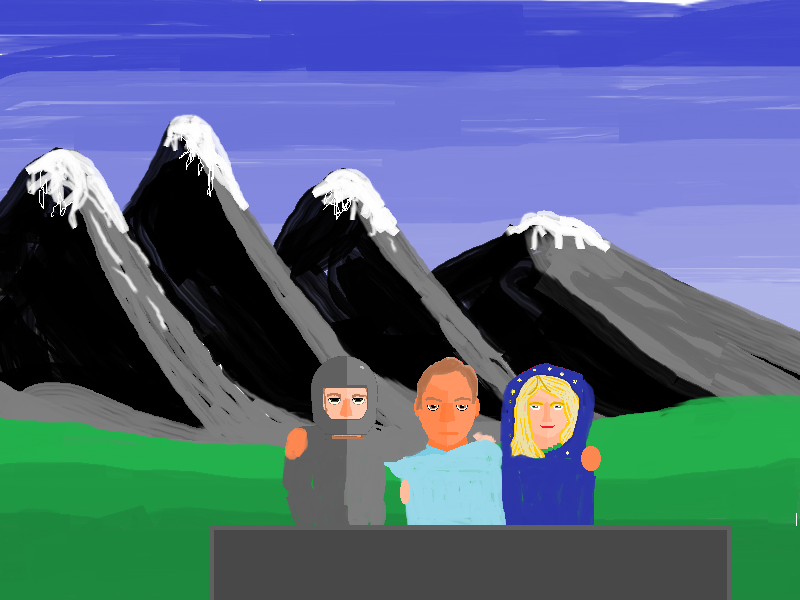
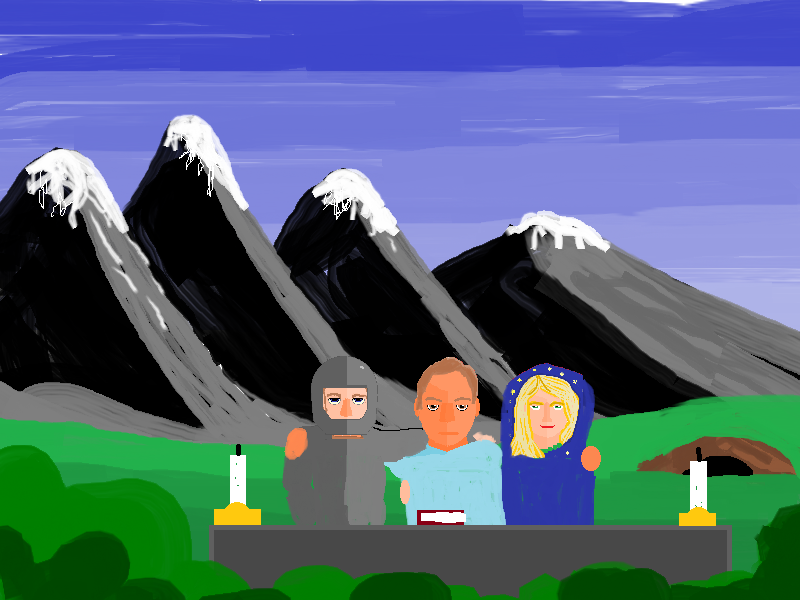
Added chair tile and added to the Castle Level

Changed region(s): [[0.0, 0.72, 1.0, 1.0], [0.7812, 0.72, 1.0, 0.9], [0.5, 0.84, 0.5938, 0.9]]

diff --git a/js/world/world.js b/js/world/world.js
@@ -47,36 +47,36 @@ var townArea = [
 					];
 
 var castleLevel = [  // levelOne - Castle
-					 1, 1, 1,11, 1, 1, 1,11, 1, 1, 1,11, 1, 1,36,11, 1, 1, 1,11, 1, 1, 1,11, 1, 1, 1,11, 1, 1, 1,11, 1, 1, 1,11, 1, 1, 1, 1,
-					 1,12, 5, 0,22, 0, 0,18, 0,118, 0, 0, 0, 0, 0, 0, 5, 5, 0,31,32, 0, 0, 0,16, 0, 0, 0, 0, 0, 0, 0,117,119, 0, 0, 0, 0,82, 1,
-					11, 2, 0, 0, 0, 0, 0, 0, 0, 0, 0, 0, 0, 0, 0, 0, 0, 0, 0, 0, 9, 0, 0, 0, 5, 0, 0, 0, 0,79, 0, 0, 0, 0, 0, 0, 0, 0, 0, 1,
-					 1, 0, 0, 0, 0, 0, 0, 0, 0, 0, 0, 0, 0, 0, 0, 0, 0, 0, 0, 0, 0, 0, 0, 0, 0, 0, 0, 0, 0, 0, 0, 0, 0, 0, 0, 0, 0, 0, 0, 1,
-					 1, 1, 1,11, 1, 1, 1,11, 1, 1, 1,11, 1, 0, 0, 1, 1, 1, 1, 7, 1,11,43,11,44, 1, 1, 1, 1, 1, 3, 1, 1, 1, 1, 1, 1, 1, 6, 1,
-					 1, 0, 0, 0, 0, 0, 0, 0, 0, 0, 0, 0, 0, 0, 0, 1,13,26,10, 0, 102, 0, 0, 0,82, 1,81, 0, 0, 0, 0, 0, 0, 0, 0, 0, 0, 0, 0, 1,
-					 1, 0, 0, 0, 0, 0, 0, 0, 0, 0, 0, 0, 0,23, 0, 1,13,24, 0, 0, 103, 0, 0, 0, 0, 1, 0, 0, 101, 0, 0, 0, 0, 0, 0, 0, 0, 0, 0, 1,
-					 1, 0, 0, 1, 1, 6, 1, 1, 3,43, 1, 1, 1, 1, 7, 1,13, 0, 0,45,49,49,46, 0, 0, 1, 0, 0, 0, 0, 0, 0, 0, 0, 0, 0, 0, 0, 0, 1,
-					11, 0, 0, 1, 1, 0,10, 1, 0,14,10,44,10,15, 0, 1,13,25, 0,52,63,51,53, 0, 0, 1, 0, 0, 0, 0, 0, 0, 0, 0, 0, 0, 0, 0, 0, 1,
-					 1, 0, 0, 1, 1, 0, 0,43, 0, 0, 0, 1, 5, 0, 0, 1,13, 0, 0,47,50,50,48, 0, 0, 1, 0, 0, 0, 0, 0, 0, 0, 0, 0, 0, 0, 0, 0, 1,
-					 1, 0, 0, 1, 1,45,46, 1, 0, 0, 0,44, 0, 0, 0, 1,13,22, 0, 0, 0, 0, 0, 0, 0, 1, 0, 0, 0, 0, 0, 0, 0, 0, 0, 0, 0, 0, 0, 1,
-					 1, 0, 0, 1, 1,47,48, 1, 5, 0, 0,11, 0, 0, 0, 1,13, 0, 0, 0, 0, 0, 0, 0, 0, 1, 0, 0, 0, 0, 0, 0, 0, 0, 0, 0, 0, 0, 0, 1,
-					11, 0, 0, 1, 1, 0, 0, 1, 1, 1,11,44, 0, 0, 0, 1, 1, 1, 1, 3, 1, 1, 1, 1, 1, 1, 0, 0, 0, 0, 0, 0, 0, 0, 0, 0, 0, 0, 0, 1,
-					 1, 0, 0, 1,13, 0, 4, 0, 0,44, 0,27, 0, 0, 0, 1,13, 0,10, 0, 0, 0, 0, 0, 0, 1, 0, 0, 0, 0, 0, 0, 0, 0, 0, 0, 0, 0, 0, 1,
-					 1, 0, 0, 1,13, 0, 0, 0, 0, 1, 0, 0, 0, 0, 5, 1,13, 0, 0,54,58,58,55, 0, 0, 1, 0, 0, 0, 0, 0, 0, 0, 0, 0, 0, 0, 0, 0, 1,
-					 1, 0, 0, 1, 1, 1, 1, 1, 1, 1, 1, 1, 1, 1, 1, 1,13, 0,28,61,64,60,62, 0, 0, 1, 0, 0, 0, 0, 0, 0, 0, 0, 0, 0, 0, 0, 0, 1,
-					11, 0, 0, 1, 1, 1,44,88, 1,88,44, 1, 1, 1, 1, 1,13, 0, 0,61,64,60,62, 0, 0, 1, 0, 0, 0, 0, 0, 0, 0, 0, 0, 0, 0, 0, 0, 1,
-					 1, 0, 0, 1, 1,81, 0, 0,97, 0, 8, 0,82, 1, 1, 1,13, 0, 0,56,59,59,57, 0, 0, 1, 0, 0, 0, 0, 0, 0, 0, 0, 0, 0, 0, 0, 0, 1,
-					 1, 0, 0, 1, 1, 0,84,65,69,69,66,84, 0, 1, 1, 1,13, 0, 0, 0, 0, 0, 0, 0, 0, 1, 0, 0, 0, 0, 0, 0, 0, 0, 0, 0, 0, 0, 0, 1,
-					 1, 0, 0, 1,11, 0, 0,72,71,71,73, 0, 0,11, 1, 1, 0, 0, 0,45,49,49,46, 0, 0, 1, 0, 0, 0, 0, 0, 0, 0, 0, 0, 0, 0, 0, 0, 1,
-					11, 0, 0, 1,11, 0,96,72,71,71,73, 0, 0,11, 1,11, 0, 0, 0,52,63,51,53, 0, 0, 1, 0, 0, 0, 0, 0, 0, 0, 0, 0, 0, 0, 0, 0, 1,
-					 1, 0, 0, 1, 1, 0,84,67,70,70,68,84, 0, 1, 1, 1, 0, 0, 0,52,63,51,53, 0, 0, 1, 0, 0, 0, 0, 0, 0, 0, 0, 0, 0, 0, 0, 0, 1,
-					 1, 0, 0, 1, 1,80, 0, 0, 0, 0, 0, 0,83, 1, 1,11, 0, 0, 0,47,50,50,48, 0, 0, 1, 0, 0, 0, 0, 0, 0, 0, 0, 0, 0, 0, 0, 0, 1,
-					 1, 0, 0, 1, 1, 1, 1, 1, 0, 1, 1, 1, 1, 1, 1, 1,80, 0, 0, 0, 0, 0, 0, 0, 0, 1, 0, 0, 0, 0, 0, 0, 0, 0, 0, 0, 0, 0, 0, 1,
-					11, 0, 0, 1, 1, 1, 1, 1, 7, 1, 1, 1, 1, 1, 1, 1, 1, 1, 1, 1, 1, 1, 1, 1, 6, 1, 0, 0, 0, 0, 0, 0, 0, 0, 0, 0, 0, 0, 0, 1,
-					 1, 0, 0, 1, 1,13, 0, 0, 0, 0, 0, 0, 0, 0, 0, 0, 0, 0, 0, 0, 0, 0, 0, 0, 0, 1, 0, 0, 0, 0, 0, 0, 0, 0, 0, 0, 0, 0, 0, 1,
-					 1, 0, 0, 1, 1,13, 0, 0, 0, 0, 0, 0, 0, 0, 0, 0, 0, 0, 0, 0, 0, 0, 0, 0, 0, 1, 0, 0, 0, 0, 0, 0, 0, 0, 0, 0, 0, 0, 0, 1,
-					 1, 0, 0, 1, 1, 1, 1, 0, 0, 0, 0, 0, 0, 0, 0, 0, 0, 0, 0, 0, 0, 0, 0, 0, 0, 1, 0, 0, 0, 0, 0, 0, 0, 0, 0, 0, 0, 0, 0, 1,
-					11, 0, 0, 1, 1, 1, 1,80, 0, 0, 0, 0, 0, 0, 0, 0, 0, 0, 0, 0, 0, 0, 0, 0,83, 1,80, 0, 0, 0, 0, 0, 0, 0, 0, 0, 0, 0,83, 1,
-					 1, 1, 1, 1, 1, 1, 1, 1, 1, 1, 1, 1, 1, 1, 1, 1, 1, 1, 1, 1, 1, 1, 1, 1, 1, 1, 1, 1, 1, 1, 1, 1, 1, 1, 1, 1, 1, 1, 1, 1
+					  1,  1,  1, 11,  1,  1,  1, 11,  1,  1,  1, 11,  1,  1, 36, 11,  1,  1,  1, 11,  1,  1,  1, 11,  1,  1,  1, 11,  1,  1,  1, 11,  1,  1,  1, 11,  1,  1,  1,  1,
+					  1, 12,  5,  0, 22,  0,  0, 18,  0,118,  0,  0,  0,  0,  0,  0,  5,  5,  0, 31, 32,  0,  0,  0, 16,  0,  0,  0,  0,  0,  0,  0,  0,  0,  0,  0,  0,  0, 82,  1,
+					 11,  2,  0,  0,  0,  0,  0,  0,  0,  0,  0,  0,  0,  0,  0,  0,  0,  0,  0,  0,  9,  0,  0,  0,  5,  0,  0,  0,  0, 79,  0,  0,  0,  0,  0,  0,  0,  0,  0,  1,
+					  1,  0,  0,  0,  0,  0,  0,  0,  0,  0,  0,  0,  0,  0,  0,  0,  0,  0,  0,  0,  0,  0,  0,  0,  0,  0,  0,  0,  0,  0,  0,  0,  0,  0,  0,  0,  0,  0,  0,  1,
+					  1,  1,  1, 11,  1,  1,  1, 11,  1,  1,  1, 11,  1,  0,  0,  1,  1,  1,  1,  7,  1, 11, 43, 11, 44,  1,  1,  1,  1,  1,  3,  1,  1,  1,  1,  1,  1,  1,  6,  1,
+					  1,  0,  0,  0,  0,  0,  0,  0,  0,  0,  0,  0,  0,  0,  0,  1, 13, 26, 10,  0,102,  0,  0,  0, 82,  1, 81,  0,  0,  0,  0,  0,  1,119,  8,  0,  0,  0,  0,  1,
+					  1,  0,  0,  0,  0,  0,  0,  0,  0,  0,  0,  0,  0, 23,  0,  1, 13, 24,  0,  0,103,  0,  0,  0,  0,  1,  0,  0,101,  0,  0,  0,  1,117,  0,  0,  0,  0,  0,  1,
+					  1,  0,  0,  1,  1,  6,  1,  1,  3, 43,  1,  1,  1,  1,  7,  1, 13,  0,  0, 45, 49, 49, 46,  0,  0,  1,120,  0,  0,  0,  0,  0,  1,117,  0,  0,  0,  0,  0,  1,
+					 11,  0,  0,  1,  1,  0, 10,  1,  0, 14, 10, 44, 10, 15,  0,  1, 13, 25,  0, 52, 63, 51, 53,  0,  0,  1,120,  0,  0,  0,  0,  0,  1,119,  0,  0,  0,  0,  0,  1,
+					  1,  0,  0,  1,  1,  0,  0, 43,  0,  0,  0,  1,  5,  0,  0,  1, 13,  0,  0, 47, 50, 50, 48,  0,  0, 43,  0,  0,  0,  0,  0,  0,  1,117,  0,  0,  0,  0,  0,  1,
+					  1,  0,  0,  1,  1, 45, 46,  1,  0,  0,  0, 44,  0,  0,  0,  1, 13, 22,  0,  0,  0,  0,  0,  0,  0,  1,  0,  0,  0,  0,  0,  0,  1,119,  0,  0,  0,  0,  0,  1,
+					  1,  0,  0,  1,  1, 47, 48,  1,  5,  0,  0, 11,  0,  0,  0,  1, 13,  0,  0,  0,  0,  0,  0,  0,  0,  1,120,  0,  0,  0,  0,  0,  1,119,  0,  0,  0,  0,  0,  1,
+					 11,  0,  0,  1,  1,  0,  0,  1,  1,  1, 11, 44,  0,  0,  0,  1,  1,  1,  1,  3,  1,  1,  1,  1,  1,  1,120,  0,  0,  0,  0,  0,  1,  1,  1,  1,  1,  1,  1,  1,
+					  1,  0,  0,  1, 13,  0,  4,  0,  0, 44,  0, 27,  0,  0,  0,  1, 13,  0, 10,  0,  0,  0,  0,  0,  0,  1,  0,  0,  0,  0,  0,  0,  1,  0,  0,  0,  0,  0,  0,  1,
+					  1,  0,  0,  1, 13,  0,  0,  0,  0,  1,  0,  0,  0,  0,  5,  1, 13,  0,  0, 54, 58, 58, 55,  0,  0,  1,  0,  0,  0,  0,  0,  0,  1,  0,  0,  0,  0,  0,  0,  1,
+					  1,  0,  0,  1,  1,  1,  1,  1,  1,  1,  1,  1,  1,  1,  1,  1, 13,  0, 28, 61, 64, 60, 62,  0,  0,  1,120,  0,  0,  0,  0,  0,  1,  0,  0,  0,  0,  0,  0,  1,
+					 11,  0,  0,  1,  1,  1, 44, 88,  1, 88, 44,  1,  1,  1,  1,  1, 13,  0,  0, 61, 64, 60, 62,  0,  0,  1,120,  0,  0,  0,  0,  0,  1,  0,  0,  0,  0,  0,  0,  1,
+					  1,  0,  0,  1,  1, 81,  0,  0, 97,  0,  8,  0, 82,  1,  1,  1, 13,  0,  0, 56, 59, 59, 57,  0,  0,  1,  0,  0,  0,  0,  0,  0,  1,  0,  0,  0,  0,  0,  0,  1,
+					  1,  0,  0,  1,  1,  0, 84, 65, 69, 69, 66, 84,  0,  1,  1,  1, 13,  0,  0,  0,  0,  0,  0,  0,  0,  1,  0,  0,  0,  0,  0,  0,  1,  0,  0,  0,  0,  0,  0,  1,
+					  1,  0,  0,  1, 11,  0,  0, 72, 71, 71, 73,  0,  0, 11,  1,  1,  0,  0,  0, 45, 49, 49, 46,  0,  0,  1,120,  0,  0,  0,  0,  0,  1,  0,  0,  0,  0,  0,  0,  1,
+					 11,  0,  0,  1, 11,  0, 96, 72, 71, 71, 73,  0,  0, 11,  1, 11,  0,  0,  0, 52, 63, 51, 53,  0,  0,  1,120,  0,  0,  0,  0,  0,  1,  0,  0,  0,  0,  0,  0,  1,
+					  1,  0,  0,  1,  1,  0, 84, 67, 70, 70, 68, 84,  0,  1,  1,  1,  0,  0,  0, 52, 63, 51, 53,  0,  0,  1,  1,  3,  1,  1,  1,  1,  1,  1,  3,  1,  1,  1,  1,  1,
+					  1,  0,  0,  1,  1, 80,  0,  0,  0,  0,  0,  0, 83,  1,  1, 11,  0,  0,  0, 47, 50, 50, 48,  0,  0, 43,117,  0,  0,119,119,118,  0,  0,  0,  0,  0,  0,  0,  1,
+					  1,  0,  0,  1,  1,  1,  1,  1,  0,  1,  1,  1,  1,  1,  1,  1, 80,  0,  0,  0,  0,  0,  0,  0,  0,  1,117,  0,  0,  0,  0,  0,  0,  0,  0,  0,  0,  0,  0,  1,
+					 11,  0,  0,  1,  1,  1,  1,  1,  7,  1,  1 , 1,  1,  1,  1,  1,  1,  1,  1,  1,  1,  1,  1,  1,  6,  1,117,  0,  0,  0,  0,  0,  0,  0,  0,  0,  0,  0,  0,  1,
+					  1,  0,  0,  1,  1, 13,  0,  0,  0,  0,  0,  0,  0,  0,  0,  0,  0,  0,  0,  0,  0,  0,  0,  0,  0,  1,117,  0,  0,  0,  0,  0,  0,  0,  0,  0,  0,  0,  0,  1,
+					  1,  0,  0,  1,  1, 13,  0,  0,  0,  0,  0,  0,  0,  0,  0,  0,  0,  0,  0,  0,  0,  0,  0,  0,  0,  1,117,  0,  0,  0,  0,  0,  0,  0,  0,  0,  0,  0,  0,  1,
+					  1,  0,  0,  1,  1,  1,  1,  0,  0,  0,  0,  0,  0,  0,  0,  0,  0,  0,  0,  0,  0,  0,  0,  0,  0,  1,117,  0,  0,  0,  0,  0,  0,  0,  0,  0,  0,  0,  0,  1,
+					 11,  0,  0,  1,  1,  1,  1, 80,  0,  0,  0,  0,  0,  0,  0,  0,  0,  0,  0,  0,  0,  0,  0,  0, 83,  1, 80,  0,  0,  0,  0,  0,  0,  0,  0,  0,  0,  0,  0,  1,
+					  1,  1,  1,  1,  1,  1,  1,  1,  1,  1,  1,  1,  1,  1,  1,  1,  1,  1,  1,  1,  1,  1,  1,  1,  1,  1,  1,  1,  1,  1,  1,  1,  1,  1,  1,  1,  1,  1,  1,  1,
 					];
 
 var levelCryptIntro = [  // levelCryptIntro - Crypt
@@ -334,6 +334,7 @@ const TILE_SKELETON = 116;
 const TILE_BOX = 117;
 const TILE_BARREL = 118;
 const TILE_BARREL_3 = 119;
+const TILE_CHAIR_2 = 120;
 
 
 function gameCoordToIsoCoord (pixelX, pixelY) {

diff --git a/js/maps/crypt2.js b/js/maps/crypt2.js
@@ -22,6 +22,7 @@ class Crypt2 extends Map {
 	  case TILE_BOX:
 	  case TILE_BARREL:
 	  case TILE_BARREL_3:
+	  case TILE_CHAIR_2:
         return TILE_CRYPT_FLOOR;
 
       case TILE_SKELETON_KING:
@@ -33,6 +34,7 @@ class Crypt2 extends Map {
       case TILE_CRYPT_TORCH:
       case TILE_WALL_SHIELD:
       case TILE_WALL_SWORD:
+	  case TILE_WALL_ART:
         return TILE_CRYPT_WALL;
 
       // Returns tile if no base tile is found

diff --git a/js/maps/cryptintro.js b/js/maps/cryptintro.js
@@ -28,6 +28,7 @@ class CryptIntro extends Map {
       case TILE_CRYPT_TORCH:
       case TILE_WALL_SHIELD:
       case TILE_WALL_SWORD:
+	  case TILE_WALL_ART:
         return TILE_CRYPT_WALL;
 
       // Floor Decors:
@@ -37,6 +38,7 @@ class CryptIntro extends Map {
 	  case TILE_BOX:
 	  case TILE_BARREL:
 	  case TILE_BARREL_3:
+	  case TILE_CHAIR_2:
         return TILE_CRYPT_FLOOR;
 
       // Returns tile if no base tile is found

diff --git a/js/maps/castle.js b/js/maps/castle.js
@@ -28,6 +28,7 @@ class Castle extends Map {
       case TILE_CRYPT_TORCH:
       case TILE_WALL_SHIELD:
       case TILE_WALL_SWORD:
+	  case TILE_WALL_ART:
         return TILE_WALL;
 
       // Floor Decors:
@@ -37,6 +38,7 @@ class Castle extends Map {
 	  case TILE_BOX:
 	  case TILE_BARREL:
 	  case TILE_BARREL_3:
+	  case TILE_CHAIR_2:
         return TILE_ROAD;
 
       // Returns tile if no base tile is found

diff --git a/js/maps/cave1.js b/js/maps/cave1.js
@@ -28,6 +28,7 @@ class Cave1 extends Map {
       case TILE_CRYPT_TORCH:
       case TILE_WALL_SHIELD:
       case TILE_WALL_SWORD:
+	  case TILE_WALL_ART:
         return TILE_WALL;
 
       // Floor Decors:
@@ -37,6 +38,7 @@ class Cave1 extends Map {
 	  case TILE_BOX:
 	  case TILE_BARREL:
 	  case TILE_BARREL_3:
+	  case TILE_CHAIR_2:
         return TILE_ROAD;
 
       // Returns tile if no base tile is found

diff --git a/js/maps/town.js b/js/maps/town.js
@@ -19,6 +19,7 @@ class Town extends Map {
 	  case TILE_BOX:
 	  case TILE_BARREL:
 	  case TILE_BARREL_3:
+	  case TILE_CHAIR_2:
         return TILE_ROAD;
 
       // Wall Decors
@@ -26,6 +27,7 @@ class Town extends Map {
       case TILE_CRYPT_TORCH:
       case TILE_WALL_SHIELD:
       case TILE_WALL_SWORD:
+	  case TILE_WALL_ART:
 
         return TILE_WALL;
 

diff --git a/js/utilities/ImageLoading.js b/js/utilities/ImageLoading.js
@@ -276,6 +276,7 @@ function loadImages() {
 			{tileType: TILE_CAVE_ROCK2, theFile: "cave_Rock2.png"},
 			{tileType: TILE_BOX, theFile: "box.png"},
 			{tileType: TILE_BARREL_3, theFile: "multibarrel.png"},
+			{tileType: TILE_CHAIR_2, theFile: "chair.png"}
 		];
 
 	picsToLoad = imageList.length;

diff --git a/js/characters/player/player.js b/js/characters/player/player.js
@@ -289,6 +289,8 @@ class Player extends Character {
 				case TILE_COLUMN:
 				case TILE_BARREL:
 				case TILE_BARREL_3:
+				case TILE_WALL_ART:
+				case TILE_CHAIR_2:
 				default:
 					if (this.noClipMode) {
 						if (getTileIndexAtPixelCoord(nextX, nextY) != undefined) {

diff --git a/js/utilities/pathfinding.js b/js/utilities/pathfinding.js
@@ -163,6 +163,8 @@ function isNotAPassableTile(aTile) {
 			case TILE_BOX:
 			case TILE_BARREL:
 			case TILE_BARREL_3:
+			case TILE_WALL_ART:
+			case TILE_CHAIR_2:
 			case TILE_GOLD_COINS:
 			case TILE_SWORD:
 			case TILE_SHIELD:

diff --git a/js/characters/npc/npc.js b/js/characters/npc/npc.js
@@ -134,6 +134,8 @@ class NPC extends Character {
 		case TILE_BOX:
 		case TILE_BARREL:
 		case TILE_BARREL_3:
+		case TILE_CHAIR_2:
+		case TILE_WALL_ART:
 		default:
 			this.movementTimer = 0;
 			break;

diff --git a/js/characters/enemy/enemy.js b/js/characters/enemy/enemy.js
@@ -171,6 +171,7 @@ class Enemy extends Character {
 		case TILE_BOX:
 		case TILE_BARREL:
 		case TILE_BARREL_3:
+		case TILE_CHAIR_2:
 		default:
 			this.movementTimer = 0;
 			break;

diff --git a/js/maps/cave2.js b/js/maps/cave2.js
@@ -27,6 +27,7 @@ class Cave2 extends Map {
 	  case TILE_BOX:
 	  case TILE_BARREL:
 	  case TILE_BARREL_3:
+	  case TILE_CHAIR_2:
         return TILE_ROAD;
 
       // Wall Decors
